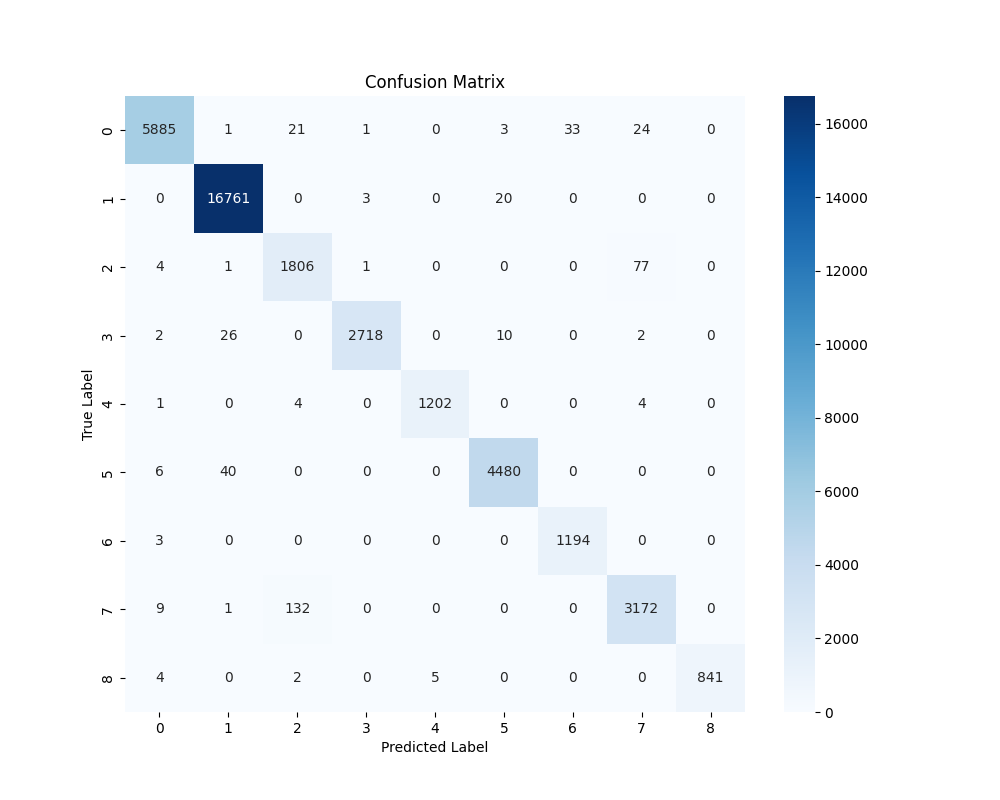
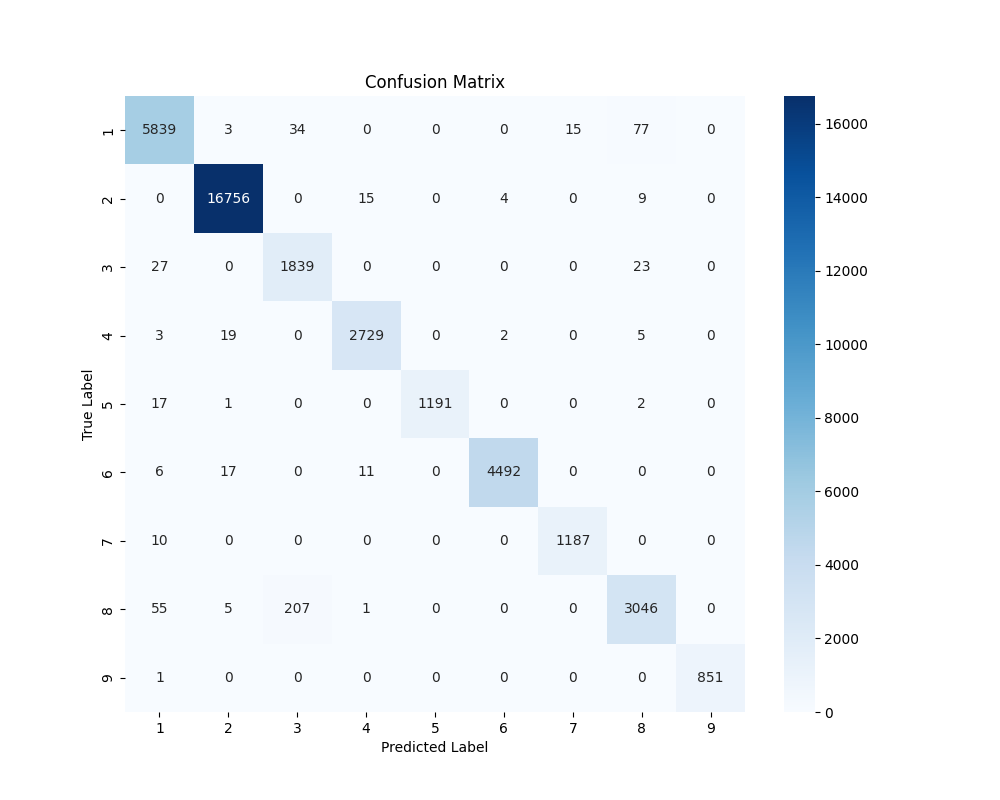
add svm model

diff --git a/main.py b/main.py
@@ -1,4 +1,6 @@
 import os
+
+from sklearn import svm
 os.environ["CUDA_VISIBLE_DEVICES"] = "1"
 import sys
 import seaborn as sns
@@ -87,7 +89,7 @@ def train_mlp(X_train, y_train, X_test, y_test, input_size, hidden_size, num_cla
         
         # 创建混淆矩阵
         conf_matrix = confusion_matrix(y_test.cpu().numpy(), predicted.cpu().numpy())
-        target_names = [str(i) for i in range(num_classes)]
+        target_names = [str(i + 1) for i in range(num_classes)]
         
         # 绘制混淆矩阵
         plt.figure(figsize=(10, 8))
@@ -101,6 +103,58 @@ def train_mlp(X_train, y_train, X_test, y_test, input_size, hidden_size, num_cla
         print(f'Final Kappa: {kappa:.4f}')
     
     return model
+
+def evaluate_mlp(model, X, ground_truth):
+    # 评估模型
+    model.eval()  # 设置模型为评估模式
+    
+    with torch.no_grad():
+        outputs = model(X)
+        _, predicted = torch.max(outputs.data, 1)  # 获取预测值
+        
+        
+        # 绘制预测结果, 将ground_truth和predicted_labels绘制在一个图片中
+        predicted_labels = predicted.cpu().numpy()
+        plot_results(predicted_labels,ground_truth,'RPNet+MLP')
+def plot_results(predicted_labels,ground_truth,model_name):
+    # reshape predicted_labels
+        predicted_labels = predicted_labels.reshape(ground_truth.shape)
+        # 定义颜色调色板
+        palette = np.array([
+            [216, 191, 216],
+            [0, 255, 0],
+            [0, 255, 255],
+            [45, 138, 86],
+            [255, 0, 255],
+            [255, 165, 0],
+            [159, 31, 239],
+            [255, 0, 0],
+            [255, 255, 0]
+        ])
+
+        # 将颜色转换为范围 [0, 1] 之间的浮点数
+        palette = palette / 255.0
+
+        # 创建自定义颜色映射
+        cmap_custom = ListedColormap(palette)
+        plt.figure(figsize=(10, 5))
+
+        # 绘制真实标签
+        plt.subplot(1, 2, 1)
+        plt.title('Ground Truth')
+        plt.imshow(ground_truth, cmap='jet')
+        plt.colorbar()
+
+        # 绘制预测标签
+        plt.subplot(1, 2, 2)
+        plt.title('Predicted Labels')
+        plt.imshow(predicted_labels, cmap=cmap_custom)
+        plt.colorbar()
+
+        plt.tight_layout()
+        plt.savefig(f'{model_name}_comparison.png')
+
+
 if __name__ == '__main__':
     parser = argparse.ArgumentParser(description='Land Cover Classification')
     parser.add_argument('--dataset', type=str, default='paviaU', help='dataset name (default: paviaU)')
@@ -157,55 +211,36 @@ if __name__ == '__main__':
     
     # 训练MLP模型
     model = train_mlp(X_train, y_train, X_test, y_test, input_size, hidden_size, num_classes, epochs=100, learning_rate=1e-3)
+    X = torch.from_numpy(RPNet_feature_map.numpy().reshape(-1, RPNet_feature_map.size(2))).float().to(device)
+    evaluate_mlp(model, X, ground_truth)
     # Save model
     torch.save(model.state_dict(), f'RPNet_MLP_{args.dataset}.pth')
     print('Model saved')
-    # 评估模型
-    model.eval()  # 设置模型为评估模式
-    X = torch.from_numpy(RPNet_feature_map.numpy().reshape(-1, RPNet_feature_map.size(2))).float().to(device)
-    with torch.no_grad():
-        outputs = model(X)
-        _, predicted = torch.max(outputs.data, 1)  # 获取预测值
-        
-        
-        # 绘制预测结果, 将ground_truth和predicted_labels绘制在一个图片中
-        predicted_labels = predicted.cpu().numpy()
-        # reshape predicted_labels
-        predicted_labels = predicted_labels.reshape(ground_truth.shape)
-        # 定义颜色调色板
-        palette = np.array([
-            [216, 191, 216],
-            [0, 255, 0],
-            [0, 255, 255],
-            [45, 138, 86],
-            [255, 0, 255],
-            [255, 165, 0],
-            [159, 31, 239],
-            [255, 0, 0],
-            [255, 255, 0]
-        ])
-
-        # 将颜色转换为范围 [0, 1] 之间的浮点数
-        palette = palette / 255.0
-
-        # 创建自定义颜色映射
-        cmap_custom = ListedColormap(palette)
-        plt.figure(figsize=(10, 5))
-
-        # 绘制真实标签
-        plt.subplot(1, 2, 1)
-        plt.title('Ground Truth')
-        plt.imshow(ground_truth, cmap='jet')
-        plt.colorbar()
-
-        # 绘制预测标签
-        plt.subplot(1, 2, 2)
-        plt.title('Predicted Labels')
-        plt.imshow(predicted_labels, cmap=cmap_custom)
-        plt.colorbar()
-
-        plt.tight_layout()
-        plt.savefig('comparison.png')
     
+    #使用svm 分类
+    clf = svm.SVC(kernel='rbf', C=1, gamma='scale')
+    clf.fit(X_train, y_train)
+    predicted = clf.predict(X_test)
+    
+    # 使用分类报告和绘制混淆矩阵
+    print(classification_report(y_test, predicted))
+    
+    # 创建混淆矩阵
+    conf_matrix = confusion_matrix(y_test, predicted)
+    target_names = [str(i + 1) for i in range(num_classes)]
+    
+    # 绘制混淆矩阵
+    plt.figure(figsize=(10, 8))
+    sns.heatmap(conf_matrix, annot=True, fmt='d', cmap='Blues', xticklabels=target_names, yticklabels=target_names)
+    plt.xlabel('Predicted Label')
+    plt.ylabel('True Label')
+    plt.title('Confusion Matrix')
+    plt.savefig('svm_confusion_matrix.png')
+    
+    print(f'Final Accuracy: {accuracy_score(y_test, predicted) * 100:.2f}%')
+    print(f'Final Kappa: {cohen_kappa_score(y_test, predicted):.4f}')
+    predicted = clf.predict(X.cpu().numpy())
+    plot_results(predicted,ground_truth,'RPNet+SVM')
+
 
     
